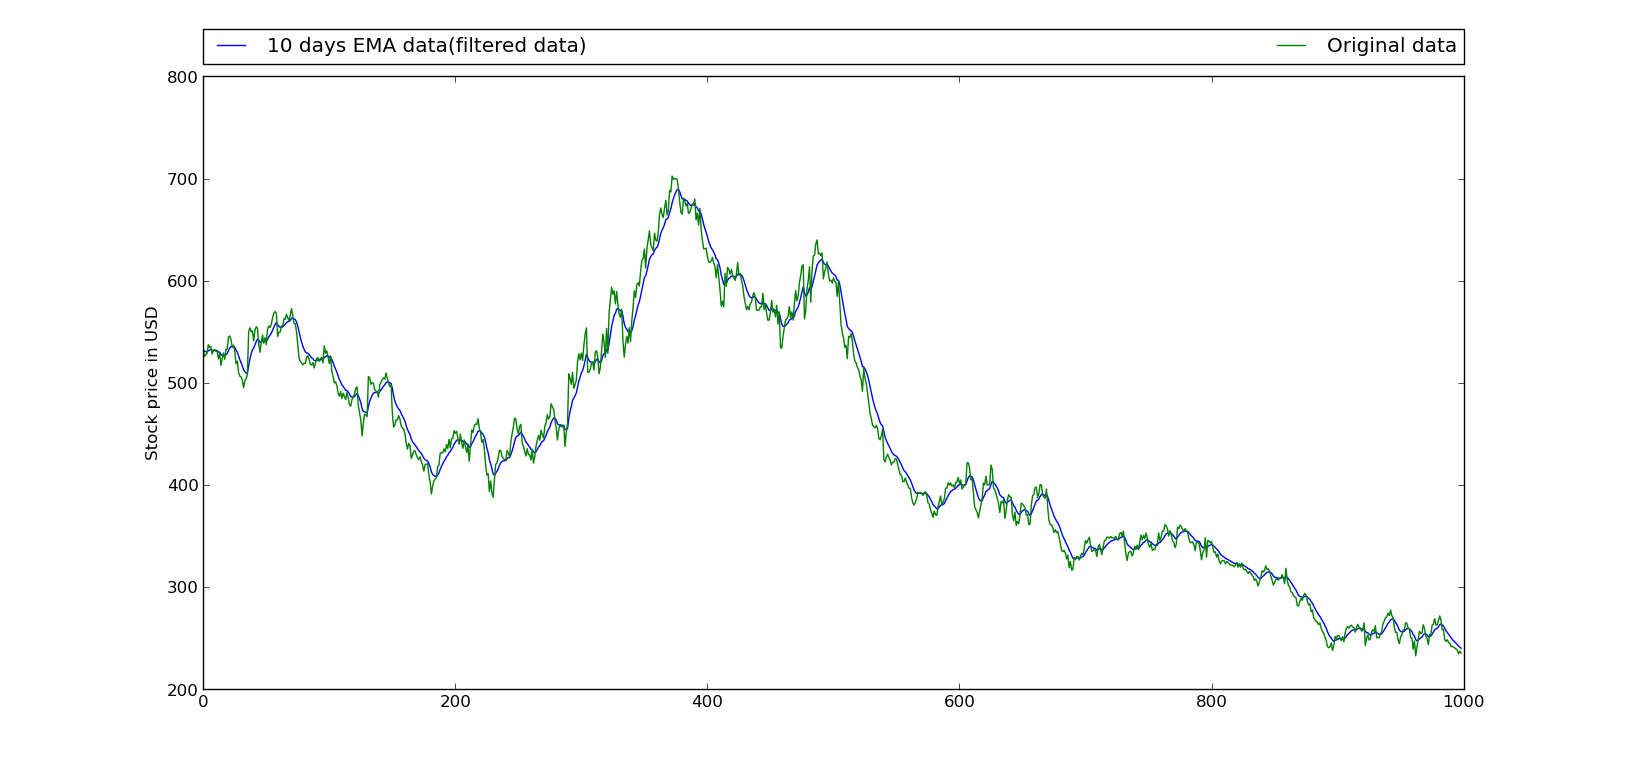
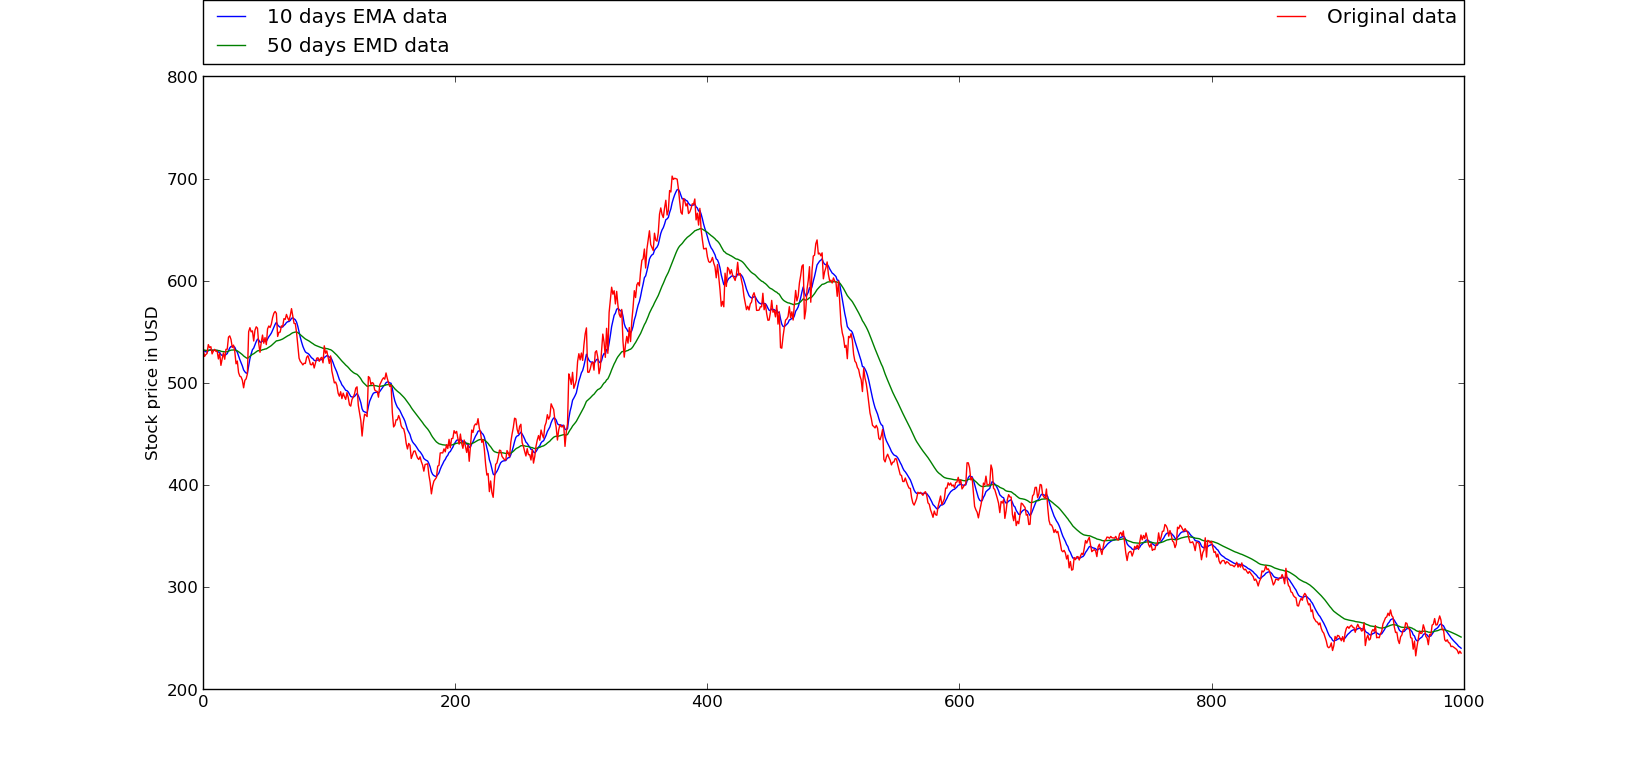
added 10 days and 50 days EMA in expavg_stock.py example

diff --git a/gr-exp_average/examples/expavg_stock.py b/gr-exp_average/examples/expavg_stock.py
@@ -31,22 +31,30 @@ class example_expavg (gr.top_block):
     
         src_data = (532.26,525.9,527.7,528.79,537.44,534.51,535.45,528.36,531.09,532.79,530.92,531,523.42,529.08,517.14,523.61,529.38,523.15,532.79,532.99,544.75,546,542.47,534.66,536.95,530.61,518.66,521.38,510.06,506.56,505.85,502.61,495.18,502.54,503.95,508.76,550.07,554,549.94,550.91,540.99,551.48,554.9,553.52,538.22,529.91,539.83,546.8,538.81,544.32,537.45,552.86,555.68,554.17,557.46,563.82,568.1,569.89,568,545.43,549.5,549.7,555.81,555.02,562.85,562.14,567,563.58,560.9,565.79,572.65,565.5,558.3,558,549.48,536.31,524.12,521.02,519.52,517.6,519.23,519.03,524.99,526.58,522.81,518,517.67,519.99,514.58,519.58,524.15,524.58,521.1,524.02,525,519.61,536.27,529.04,531.32,525,519,526.41,511.77,505.99,499.98,500.79,497.51,489.83,486.99,491.32,484.64,489.94,486.56,483.86,490.51,485.63,478.45,477.25,483.78,486,489.2,494.88,496.1,478,470.7,463.18,447.96,461,469.34,468.5,467.01,506.2,505,498.44,500.25,499.56,493.1,492,491.65,486,498,500.75,503.27,504.98,503.59,509.71,504.34,500.15,496.42,497.88,470.94,456.86,458.64,463.86,463.8,468.02,464.69,458.01,455.75,454.99,449.96,440.8,435.3,440.7,438.93,426,429.46,433.1,433.38,429.7,426.52,425.01,427.65,422.95,419.6,413.6,420.11,420.39,420.86,409.96,402.69,391.36,399.25,403.9,405.7,407.4,418.49,419.3,431.4,431.56,431.44,435.4,432.5,439.5,435.74,444.73,436.5,445.47,445.65,453.22,450.73,452.5,445.65,440,449.9,440.85,435.95,444.05,438.15,431.91,439.05,423.24,439.16,453.85,451.51,457.97,459.81,459.04,464.97,455.71,451.31,441.78,444.46,435.1,420.45,409.81,411.23,393.54,403.99,392.64,387.97,404.99,420.27,421.57,427,434.15,433.72,428.1,426.36,424.85,424.5,433.76,431.37,427.6,441.9,449.82,456.46,465.44,464.69,454.58,450.22,457.42,459.5,441.45,437.93,432.83,428.45,435.6,429.75,429.8,424.5,434.51,421.48,427.8,438,444.05,448.43,443.82,453.85,449.25,446,457.69,461.1,468.85,464.52,467.21,479.51,476.5,474,463.25,456.47,444.05,453.91,459.11,456.98,457,458.5,437.83,451.69,460,508.81,504.56,498.52,510.31,494.64,498.3,502.68,521,528.55,522.5,529.21,522,536.97,547.88,553.82,510.53,510.29,513.54,519,520.35,512.47,530,531.47,525,508.93,514.75,531.15,547.77,539.77,525,553.4,528.94,568.91,581.8,593.65,586.79,590.22,577.27,589.55,575.9,567.17,564.25,571.91,540.71,525.2,537.53,545.5,538.91,554.15,540.42,560.63,573.84,590.23,583.52,595.89,598.22,594.88,609.43,620,621.44,631,612.42,631.05,639.59,648.87,635.37,632.35,629.56,646.5,639.74,638.65,646.88,665.2,671.25,664.86,661.81,671.16,678.75,664.29,668.74,688.26,686.86,702.41,699.16,700.26,699.88,699.35,689.96,677.37,666.85,665.11,680.45,678.05,673.17,675.57,665.76,667.25,670.64,675.25,674.98,679.99,659.51,666.11,654.42,670.82,650.01,640,631.21,631.3,631.87,623.39,618.71,617.85,619.39,622.77,617.29,613.63,602.84,615.91,603.23,590.92,575.01,579.76,574.46,607.38,594.4,613.03,611.28,606.59,610.79,605.12,602.95,600.24,606.12,617.97,605.3,607.09,600.56,594.88,584.73,578,571.67,575,571.33,577.3,579.04,585.44,588.21,583.4,570.96,571,571.24,574.52,574.46,587.72,571.6,577.29,567.77,561.27,561.5,569.16,580.74,569.2,570.9,564.59,575.87,557.5,569.55,534.5,533.96,545.31,554.05,561.45,562.57,565,574.58,563.7,569.58,561.5,577.08,590.5,580.24,584.9,597.8,605.07,614.27,615.64,562.61,570.61,591.38,600.22,613.72,578.94,610.06,624.11,625,636.2,639.93,626.13,626.98,624.35,627.3,601.83,608.77,612.78,618.38,606.18,599.79,600.49,597.78,602.74,599.51,598.37,584.72,599.61,578.05,557.54,548.98,544.21,534.69,536.8,523.66,545.42,544.24,548.17,541.56,527.96,521.31,519.67,515.08,513.08,506.88,503.11,491.5,514.26,504.66,499.53,490.96,480.76,470.5,465.25,458.38,457.3,455.9,458.41,455.59,445.71,444.34,448.36,454.44,425.1,422.67,427.49,430.15,426.96,424.2,419.7,422.28,422.68,425.91,425.5,419.77,414.95,410,409.4,403.51,403.4,406.89,403.1,399.69,397,396.69,387.76,382.47,380.36,383.33,386.7,393,391.68,392.85,391.45,389.93,392.51,393.49,389.83,382.54,381.29,375.84,372.35,368.42,374.51,371.02,370.4,378.92,383.98,389.25,380.8,383.52,386.61,397.03,396.97,402.21,399.91,402.03,399.07,400.09,397.41,402.42,403,407.56,401.76,405.03,396.18,398.1,400,401.35,421.76,421.74,416.83,404.98,407.34,392.57,379.09,375.78,373.33,367.86,374.57,380.37,387.12,401.92,400.19,408.73,399.86,400.28,401.03,419.64,415.25,397,395.54,391.43,387.02,382.14,373,383.93,382.4,385.56,367.37,374.74,385.82,390.57,388.25,388.18,371.17,365.08,373.47,360.3,364.51,362.17,370.84,382.31,381.52,379.63,378.07,370.52,371.15,361.3,361.69,380.44,389.41,390.98,397.65,397.78,387.64,391.62,400.59,400,390.35,388.32,386.95,396.12,378,365.43,361.17,361.01,358.33,353.53,356.34,353.34,354.67,348.95,343,335.95,334.7,336.04,333.65,327.59,331.37,318.94,325.16,316.68,317.36,328.99,326.9,329.75,330,326.6,330.55,333.25,331.78,338.17,345.7,343.18,346.5,348.87,341.1,334.8,335.97,336.78,335.5,329.97,339.56,342.08,336.47,332,339.2,345.66,346.12,349.02,348.89,347.86,349.69,348.4,348.26,347.99,349.74,346.78,346.19,352.24,353.62,350.34,355,343.51,333.1,326.1,333.3,334.8,335.02,330.49,334.06,339.92,338.1,341.22,336.99,344.31,351.11,346.36,350.64,347.66,353.15,348.07,341.85,339.28,342.56,335.99,337.13,336.83,342,342.1,353.18,345.33,349.12,354.69,354.91,361.4,360.07,357.19,349.96,355.47,351.24,345.26,344.02,338.77,342.15,358.71,357.25,360.8,359.19,356.79,354.75,357.39,355.19,353.68,347.89,343.64,343.8,344.45,341.3,335.8,344.17,343.78,342.96,336.33,326.87,333.77,336.43,348.35,329.52,345.89,345.16,343.25,344.88,338.83,333.99,334.72,329.55,332.44,325.64,322.95,325.48,326.22,325.91,322.85,325,324.36,323,321.6,321.63,321.09,320,321.73,324.37,319.65,322.13,319.63,323.8,318.64,317.01,317.53,315.27,313.54,315.5,313.74,312,310.45,306.68,307.97,305.2,301.2,305.72,308.46,316,315,316.64,321.05,317.2,317.99,315.45,311.37,307,302.22,304.23,307.95,307.65,306.87,309.09,309.07,312.36,309,303.4,318.47,307.44,301.69,300.2,295.41,294.74,291.71,290.34,289.59,282,281.6,286.15,289,287.23,291.77,293.98,292.1,286.33,282.71,283.86,276.08,277.69,270.24,268.17,266.21,265.82,263.19,265.04,259.78,256.64,255.09,251.26,247.47,241.85,240.76,241.75,245.45,238.04,242.67,251.79,249.39,252.84,252.36,250.08,247.58,251.65,246.69,255.4,259.85,261.48,259.78,261.73,262.84,261.01,260.44,255.89,260.71,263.67,260.87,260,257.09,257.68,265.09,242.9,249.88,253.18,248.23,249.38,256.32,258.53,256.89,262.48,250.49,251,250.49,254.3,256.71,264.12,266.93,270.06,271,274.58,272.16,277.69,272.25,270.6,261.1,255.64,255.96,248.23,244.84,251.47,253.24,258.29,258.21,265.18,264.54,259.69,259.39,250.6,250.08,239.35,247.28,232.82,241.88,249.5,256.98,254.7,255.16,263.22,259.24,251.84,250.25,243.71,253.83,253.03,262.89,263.84,269.31,263.02,263.25,267.27,271.88,267.99,258.24,258.8,248.54,247.03,248.57,245.78,245.28,241.86,242.2,241.43,240.44,239.55,238.2,234.98,237.41,235.49)
 	self.src = blocks.vector_source_f(src_data)
-	self.expo = exp_average.expavg_ff(0.1818)
+	# alpha is set for 10 days. 2/(10+1) = 0.1818
+	self.expo1 = exp_average.expavg_ff(0.1818)
+	# alpha is set for 50 days. 2/(50+1) = 0.039216
+	self.expo2 = exp_average.expavg_ff(0.039216)
 	self.dst1 = blocks.vector_sink_f()
 	self.dst2 = blocks.vector_sink_f()
-	self.connect(self.src,self.expo)
-	self.connect(self.expo,self.dst1)
-	self.connect(self.src,self.dst2)
+	self.dst3 = blocks.vector_sink_f()
+	self.connect(self.src,self.expo1)
+	self.connect(self.src,self.expo2)
+	self.connect(self.expo1,self.dst1)
+	self.connect(self.expo2,self.dst2)
+	self.connect(self.src,self.dst3)
 
 if __name__ == '__main__':
 	
     	tb1 = example_expavg()
 	try:
 		tb1.run()
-		result_data = tb1.dst1.data()
+		result_data_1 = tb1.dst1.data()
+		result_data_2 = tb1.dst2.data()
 		testfigure = plt.figure(1)
-		plt.plot(result_data, label = "10 days EMA data(filtered data)")
-		plt.plot(tb1.dst2.data(), label = "Original data")
+		plt.plot(result_data_1, label = "10 days EMA data")
+		plt.plot(result_data_2, label = "50 days EMD data")
+		plt.plot(tb1.dst3.data(), label = "Original data")
 		plt.ylabel('Stock price in USD')
 		plt.legend(bbox_to_anchor=(0.,1.02,1.,.102), loc=3,ncol=2,mode="expand", borderaxespad = 0.)
 		plt.show()
